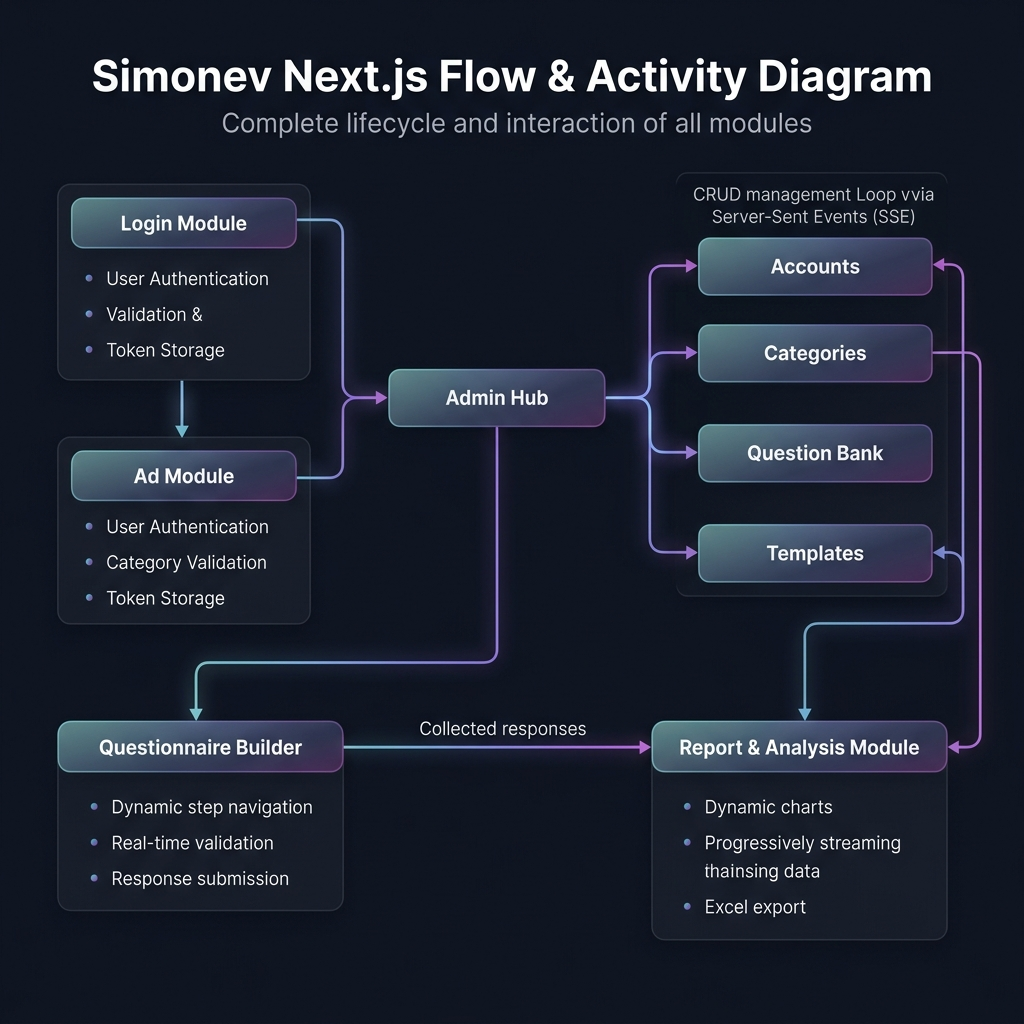
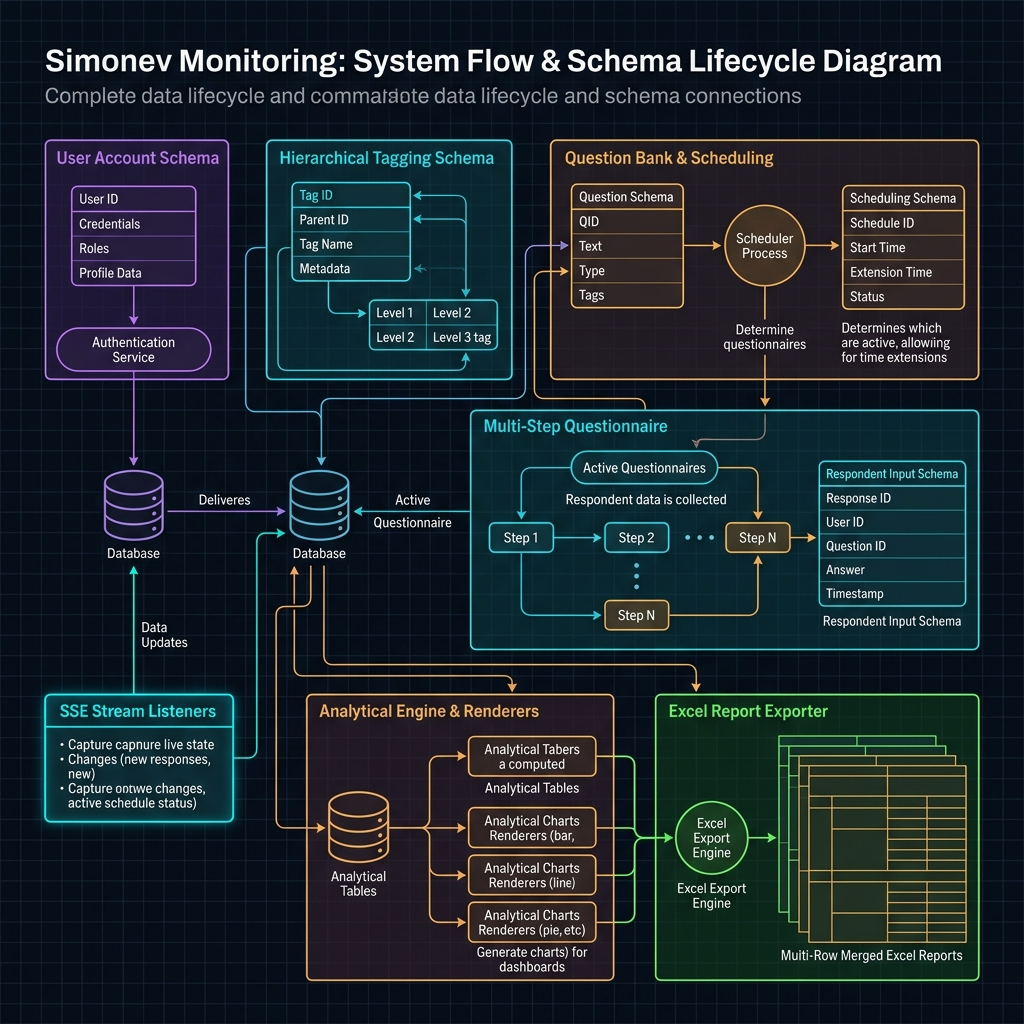
update

diff --git a/docs/FLOW_DIAGRAMS.md b/docs/FLOW_DIAGRAMS.md
@@ -1,12 +1,43 @@
 # System Flow & Activity Diagrams
 
-This document outlines key application lifecycles and user flows using Mermaid diagram flowcharts.
+This document outlines the overarching system-wide lifecycle and detailed step-by-step activity schema flows for every module inside the **unpaksimonev** application.
 
 ---
 
-## 1. Authentication & Login Flow
+## 1. Overarching System Architecture Schema Flow
 
-This diagram describes what happens when a user visits the login portal and submits their credentials.
+This high-level flowchart outlines how a user traverses the system, from initial authentication to managing administrative modules, filling out evaluations, and downloading reports.
+
+```mermaid
+flowchart TD
+    Start([User visits Portal]) --> LoginProcess[Login Module: Authentication]
+    LoginProcess --> CheckRole{User Level?}
+    
+    CheckRole -- Admin / Supervisor --> AdminDashboard[Dashboard & Navigation]
+    CheckRole -- Respondent (Dosen/Mhs/Tendik) --> RespondentForm[Quesioner Module: Fill Survey]
+    
+    AdminDashboard --> CategoryModule[Category Module: Hierarchical Tags]
+    AdminDashboard --> AccountModule[Account Module: User Accounts]
+    AdminDashboard --> QBankModule[QuestionBank Module: Survey Topics & Scheduling]
+    AdminDashboard --> QTemplateModule[TemplateQuestionBank Module: Questions & Preview]
+    AdminDashboard --> ReportModule[Report Module: Charts & Exports]
+    
+    CategoryModule --> DB_Kategori[(Database: kategoris)]
+    AccountModule --> DB_Account[(Database: accounts)]
+    QBankModule --> DB_QBank[(Database: banksoals)]
+    QTemplateModule --> DB_QTemplate[(Database: templatepertanyaans)]
+    
+    RespondentForm --> DB_Answers[(Database: kuesioner_jawaban)]
+    
+    DB_Answers --> ReportModule
+    ReportModule --> ExcelExport([Download Excel Rekap / Detail])
+```
+
+---
+
+## 2. Authentication & Login Flow
+
+This diagram describes the input validations, token storage actions, and query redirect translation steps for login.
 
 ```mermaid
 flowchart TD
@@ -23,7 +54,7 @@ flowchart TD
     ClientVal -- Yes --> APICall[POST /login via apiCall]
     
     APICall --> APIResponse{Response success?}
-    APIResponse -- Yes --> SaveTokens[Save access_token, refresh_token & expiry]
+    APIResponse -- Yes --> SaveTokens["Save access_token & refresh_token to sessionStorage and cookie (path=/)\nSave access_token_exp in sessionStorage"]
     SaveTokens --> RedirectDashboard[Redirect router.push /dashboard]
     RedirectDashboard --> End([Dashboard Loaded])
     
@@ -38,7 +69,7 @@ flowchart TD
 
 ---
 
-## 2. Background Token Watcher Swap Lifecycle
+## 3. Background Token Watcher Lifecycle
 
 This diagram outlines the automatic background token watcher (`useTokenWatcher`) checks that occur on a 1-second interval to ensure session persistence.
 
@@ -73,21 +104,216 @@ flowchart TD
 
 ---
 
-## 3. Visual System Activity Diagram
+## 4. Category Module Flow
 
-This diagram displays the full system activity schema, showing the transitions and relationships between authentication, admin CRUD modules, SSE stream syncs, client questionnaire builders, and report exports:
+Manages tree-hierarchical classifications. Outlines search queries, SSE dropdown syncing, drag-and-drop reordering, and CRUD operations.
 
-![Complete Project Flow Chart](../public/images/full_system_flow.png)
+```mermaid
+flowchart TD
+    Start([Visit Category Page]) --> InitSSE[Load SSE feeds in parallel:\n- /fakultass?mode=sse\n- /prodis?mode=sse\n- /kategoris?mode=sse]
+    InitSSE --> DisplayTree[Render Flat Tree & Select Dropdowns]
+    
+    DisplayTree --> UserAction{Select Activity}
+    
+    UserAction -- Filter & Search --> SearchDebounce[Debounce search query 300ms]
+    SearchDebounce --> FetchList[GET /kategoris with query filters]
+    FetchList --> RenderTable[Render Category List Grid]
+    
+    UserAction -- Create/Update --> CategoryForm[Open Form]
+    CategoryForm --> SubmitForm[POST /kategori or PUT /kategori/{uuid}]
+    SubmitForm --> ResetSSE[Close & Re-initialize SSE Streams] --> DisplayTree
+    
+    UserAction -- Copy Category --> CopyAction[POST /kategori/{uuid}/copy]
+    CopyAction --> ResetSSE
+    
+    UserAction -- Delete/Restore --> DeleteAction[DELETE /kategori/{uuid} OR\nDELETE /kategori/{uuid}/force OR\nPUT /kategori/{uuid}/restore]
+    DeleteAction --> ResetSSE
+    
+    UserAction -- Reorder Tree --> DnDReorder[Drag-and-Drop item to new position]
+    DnDReorder --> PutTree[PUT /kategori with updated flat array]
+    PutTree --> ResetSSE
+```
 
 ---
 
-## 4. Visual Component Interaction Sequence Diagram
+## 5. Account Module Flow
 
-This sequence diagram displays how different components, custom hooks, and external API services communicate:
+Handles administrator controls over user profiles, credentials mapping, progressive study program options loading, and CRUD endpoints.
 
+```mermaid
+flowchart TD
+    Start([Visit Account Page]) --> InitSSE[Load SSE feeds:\n- /fakultass?mode=sse\n- /prodis?mode=sse]
+    InitSSE --> DisplayForm[Populate Filter Selectors]
+    
+    DisplayForm --> QueryList[GET /accounts with search, level, faculty, prodi parameters]
+    QueryList --> DisplayTable[Render Account Table Grid]
+    
+    DisplayTable --> UserAction{Select Action}
+    
+    UserAction -- Search & Filter --> QueryList
+    
+    UserAction -- Register User --> OpenForm[Open CreateUserForm]
+    OpenForm --> SubmitUser[POST /account]
+    SubmitUser --> RefreshList[Refresh GET /accounts] --> DisplayTable
+    
+    UserAction -- Edit Profile --> OpenEditForm[Open Edit Form]
+    OpenEditForm --> UpdateUser[PUT /account/{uuid}]
+    UpdateUser --> RefreshList
+    
+    UserAction -- Delete/Restore --> DelRestore[DELETE /account/{uuid} OR\nDELETE /account/{uuid}/force OR\nPUT /account/{uuid}/restore]
+    DelRestore --> RefreshList
+```
+
+---
+
+## 6. QuestionBank (Bank Soal) Module Flow
+
+Handles core evaluation questionnaire metadata, status toggle flags, and primary calendar schedules alongside override extensions.
+
+```mermaid
+flowchart TD
+    Start([Visit QuestionBank Page]) --> LoadSSE[Load SSE feeds:\n- /fakultass?mode=sse\n- /prodis?mode=sse]
+    LoadSSE --> QueryBank[GET /banksoals using FilterBuilder predicates]
+    QueryBank --> RenderTable[Display QuestionBank Table Grid]
+    
+    RenderTable --> UserAction{Select Action}
+    
+    UserAction -- Create/Update --> FormOpen[Open CreateBankSoalForm with CKEditor]
+    FormOpen --> SubmitBank[POST /banksoal OR PUT /banksoal/{uuid}]
+    SubmitBank --> RefreshBank[Refresh GET /banksoals] --> RenderTable
+    
+    UserAction -- Status Toggle --> StatusAction[PUT /banksoal/{uuid}/status to ACTIVE/DRAFT]
+    StatusAction --> RefreshBank
+    
+    UserAction -- Copy/Duplicate --> CopyAction[POST /banksoal/{uuid}/copy]
+    CopyAction --> RefreshBank
+    
+    UserAction -- Delete/Restore --> DelAction[DELETE /banksoal/{uuid} OR\nDELETE /banksoal/{uuid}/force OR\nPUT /banksoal/{uuid}/restore]
+    DelAction --> RefreshBank
+    
+    UserAction -- Manage Schedule --> ScheduleForm[Open BankSoalTimeForm Calendar]
+    ScheduleForm --> ScheduleAction{Scheduling Command}
+    ScheduleAction -- Save Primary/Ext --> PUT_Schedule[PUT /banksoal/{uuid}/schedule]
+    ScheduleAction -- Delete Primary --> DEL_Time[DELETE /banksoal/{uuid}/time]
+    ScheduleAction -- Delete Extension --> DEL_Ext[DELETE /banksoal/{uuid}/timeext]
+    PUT_Schedule --> RefreshBank
+    DEL_Time --> RefreshBank
+    DEL_Ext --> RefreshBank
+```
+
+---
+
+## 7. TemplateQuestionBank Module Flow
+
+Coordinates specific individual question constructs, progressive option feeds, single question answers retrieval, and simulated real-time preview builders.
+
+```mermaid
+flowchart TD
+    Start([Visit TemplateQuestionBank Page]) --> LoadSSE[Load SSE feeds:\n- /kategoris?mode=sse\n- /banksoals?mode=sse\n- /fakultass?mode=sse\n- /prodis?mode=sse]
+    LoadSSE --> QueryTemplates[GET /templatepertanyaans]
+    QueryTemplates --> RenderGrid[Display Question Templates Grid]
+    
+    RenderGrid --> UserAction{Select Action}
+    
+    UserAction -- Create/Update --> OpenForm[Open CreateTemplateForm]
+    OpenForm --> SubmitQuestion[POST /templatepertanyaan OR PUT /templatepertanyaan/{uuid}]
+    SubmitQuestion --> RefreshGrid[Refresh GET /templatepertanyaans] --> RenderGrid
+    
+    UserAction -- Duplicate --> CopyQuestion[POST /templatepertanyaan/{uuid}/copy]
+    CopyQuestion --> RefreshGrid
+    
+    UserAction -- Status Toggle --> ToggleStatus[PUT /templatepertanyaan/{uuid}/status]
+    ToggleStatus --> RefreshGrid
+    
+    UserAction -- Delete/Restore --> DeleteAction[DELETE /templatepertanyaan/{uuid} OR\nDELETE /templatepertanyaan/{uuid}/force OR\nPUT /templatepertanyaan/{uuid}/restore]
+    DeleteAction --> RefreshGrid
+    
+    UserAction -- Fetch Answers --> GetAnswers[GET /templatejawabans for target template UUID]
+    GetAnswers --> DisplayAnswers[Show linked answers list]
+    
+    UserAction -- Live Preview --> PreviewLoader[Launch parallel preview event-stream:\n- /templatepertanyaans?mode=sse\n- /templatejawabans?mode=sse]
+    PreviewLoader --> MergePreview[Merge questions and answers real-time]
+    MergePreview --> ShowSimulation[Render Interactive Questionnaire Simulation Form]
+```
+
+---
+
+## 8. Quesioner Module Flow
+
+Manages respondent survey pages, enforcing concurrent profile and schema evaluations, schedule/extension check boundaries, and multi-field submissions.
+
+```mermaid
+flowchart TD
+    Start([User visits /quesioner/uuid]) --> ConcurrentFetch[Concurrent Promise.all Fetches:\n- GET /kuesioners/active/{uuid}\n- GET /kuesioner/{uuid}/jawaban\n- GET /whoami]
+    ConcurrentFetch --> FetchQuestions[Fetch GET /templatepertanyaan/template_uuid/template for each question]
+    FetchQuestions --> ValidateAvailability{Check Date Limits (DateTimeVO) & Extension list (ListExt)?}
+    
+    ValidateAvailability -- Expired / Unauthorized --> RenderNotFound[Render NotFound or Problem Page]
+    
+    ValidateAvailability -- Active & Allowed --> CalcSteps[Calculate step accessibility:\n- Admin step\n- Fakultas step\n- Prodi step]
+    CalcSteps --> RenderWizard[Render Multi-Step Questionnaire Form]
+    
+    RenderWizard --> UserInput{Input responses}
+    UserInput -- Select score / checkbox --> UpdateState[Update answers state variables]
+    UserInput -- Select "Other" option --> RenderTextInput[Render text input field for custom explanation]
+    
+    UpdateState --> SubmitCheck{User clicks Submit?}
+    SubmitCheck -- No --> RenderWizard
+    SubmitCheck -- Yes --> ValidateRequired{All mandatory questions answered?}
+    
+    ValidateRequired -- No --> ShowErrors[Highlight missing questions & scroll to view] --> RenderWizard
+    
+    ValidateRequired -- Yes --> ConSubmit[POST /kuesioner/{uuid}/jawaban concurrently]
+    ConSubmit --> SubmitResult{Submission success?}
+    SubmitResult -- Yes --> RenderComplete[Display Complete Thank You Page]
+    SubmitResult -- No --> ShowSubmitError[PushToast: Gagal mengirimkan kuesioner] --> RenderWizard
+```
+
+---
+
+## 9. Report Module Flow
+
+Outlines chunked readable text-event streams loading, dynamic client-side metric aggregations, and customized spreadsheet serializations.
+
+```mermaid
+flowchart TD
+    Start([Visit Report Page]) --> LoadSSE[Load SSE feeds:\n- /fakultass?mode=sse\n- /prodis?mode=sse]
+    LoadSSE --> StreamReport[POST /kuesioners/report with text/event-stream]
+    StreamReport --> ReadableStreamReader[Low-level ReadableStream Reader:\n- Accumulate binary chunks\n- Decode via TextDecoder\n- Parse line-by-line JSON objects]
+    ReadableStreamReader --> LoadExtraInfo[GET /templatepertanyaan/{uuid}/banksoal for context metadata]
+    LoadExtraInfo --> AccumulateData[Update report state lists]
+    
+    AccumulateData --> Aggregations["useMemo computations:\n- topQuestions (averages)\n- yearlyStats (dosen, mhs, tendik counts)\n- facultyStats (faculty/prodi counts)"]
+    Aggregations --> RenderCharts[Display analytical charts:\n- Recharts Bar, Line, Pie, & Radar charts\n- Distribution table grids]
+    
+    RenderCharts --> UserAction{Select Export Option}
+    
+    UserAction -- Export Rekap --> RekapExporter[ExcelJS Rekap Exporter:\n- Filter out duplicate respondents (NIDN/NIP/NPM)\n- Map profiles and global metrics\n- Style column widths & values]
+    
+    UserAction -- Export Detail --> DetailExporter[ExcelJS Detail Exporter:\n- Correlate questions with multiple user responses\n- Structure row spacing & border headings\n- Merge multi-row cells vertically & horizontally]
+    
+    RekapExporter --> TriggerDownload[Trigger browser file download saving .xlsx file]
+    DetailExporter --> TriggerDownload
+```
+
+---
+
+## 10. Visual Architecture & Component Interaction Diagrams
+
+For high-fidelity architectural references, view these generated visual assets:
+
+### A. DDD & Atomic Design Component Pattern
+Describes domain boundaries, logic isolation, adapters, hooks, and atomic structure definitions.
+![DDD & Atomic Design Architecture](../public/images/ddd_atomic_pattern.png)
+
+### B. High-Fidelity Activity Flow
+System-wide user interaction sequences, validation triggers, and route checks.
+![System Activity Diagram](../public/images/activity_diagram.png)
+
+### C. Visual Component Interaction Sequence
+Demonstrates communication pathways between presentation pages, hooks context, and network apiCall modules.
 ![Component Interaction Sequence Diagram](../public/images/component_interaction.png)
 
----
-
-## 5. Complete Project Flow & Lifecycle Activity Diagram
-
+### D. Complete Application Lifecycle Flow
+A comprehensive schema flowchart showing all backend API integrations and SSE channels across the application modules.
+![Complete Project Flow Chart](../public/images/full_system_flow.png)
